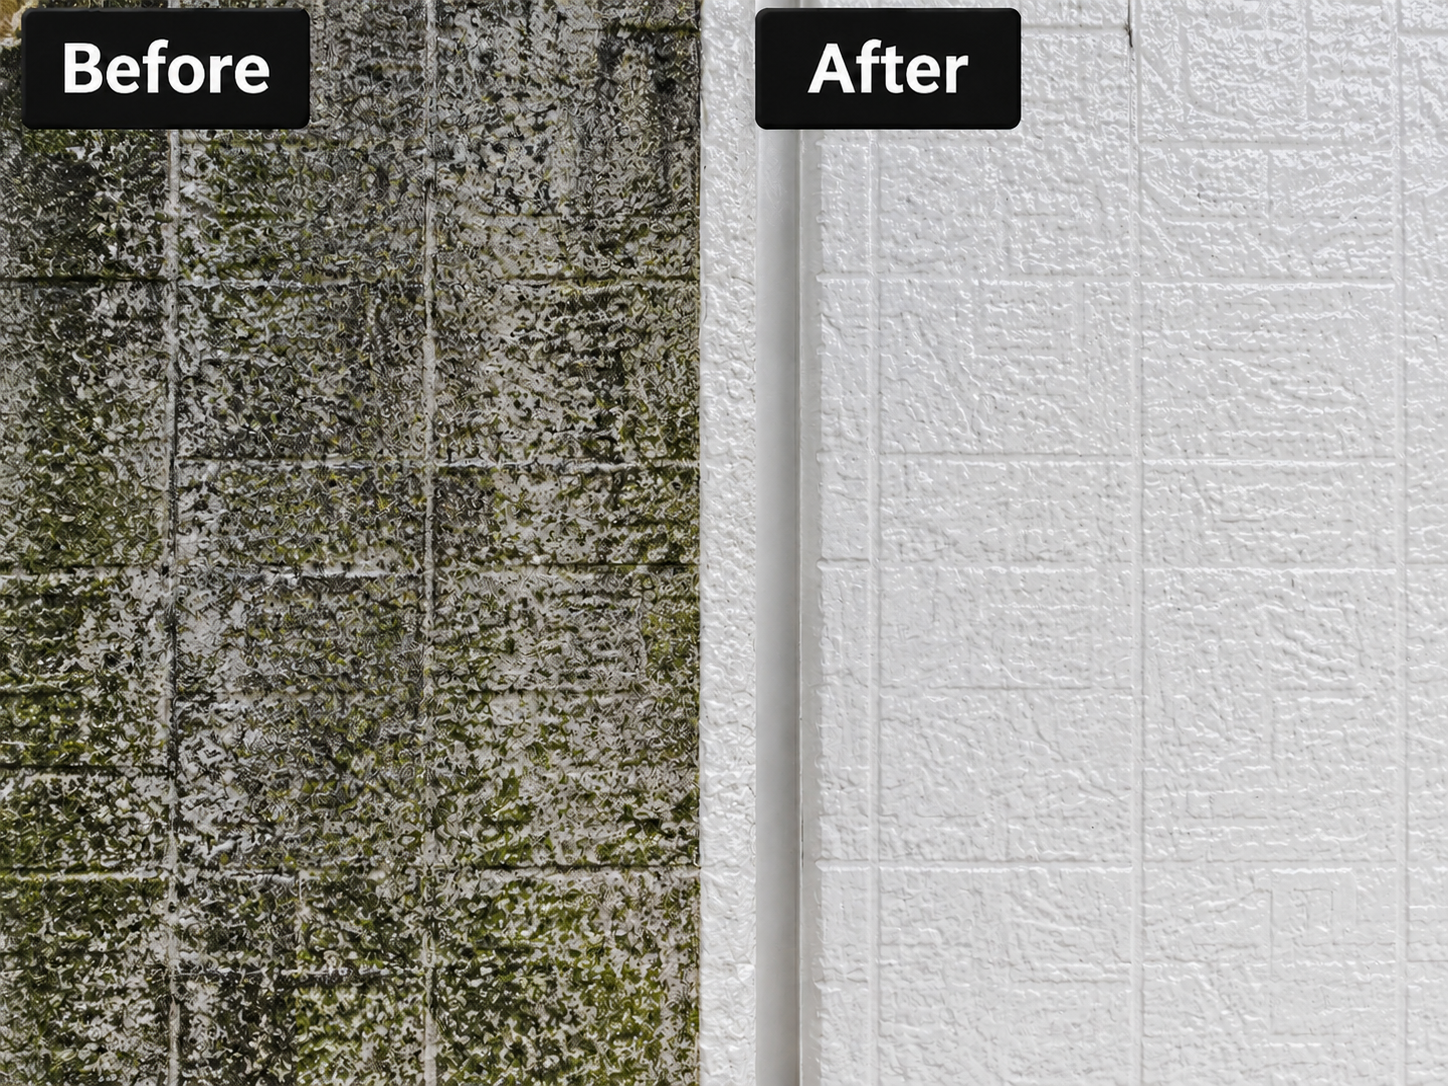
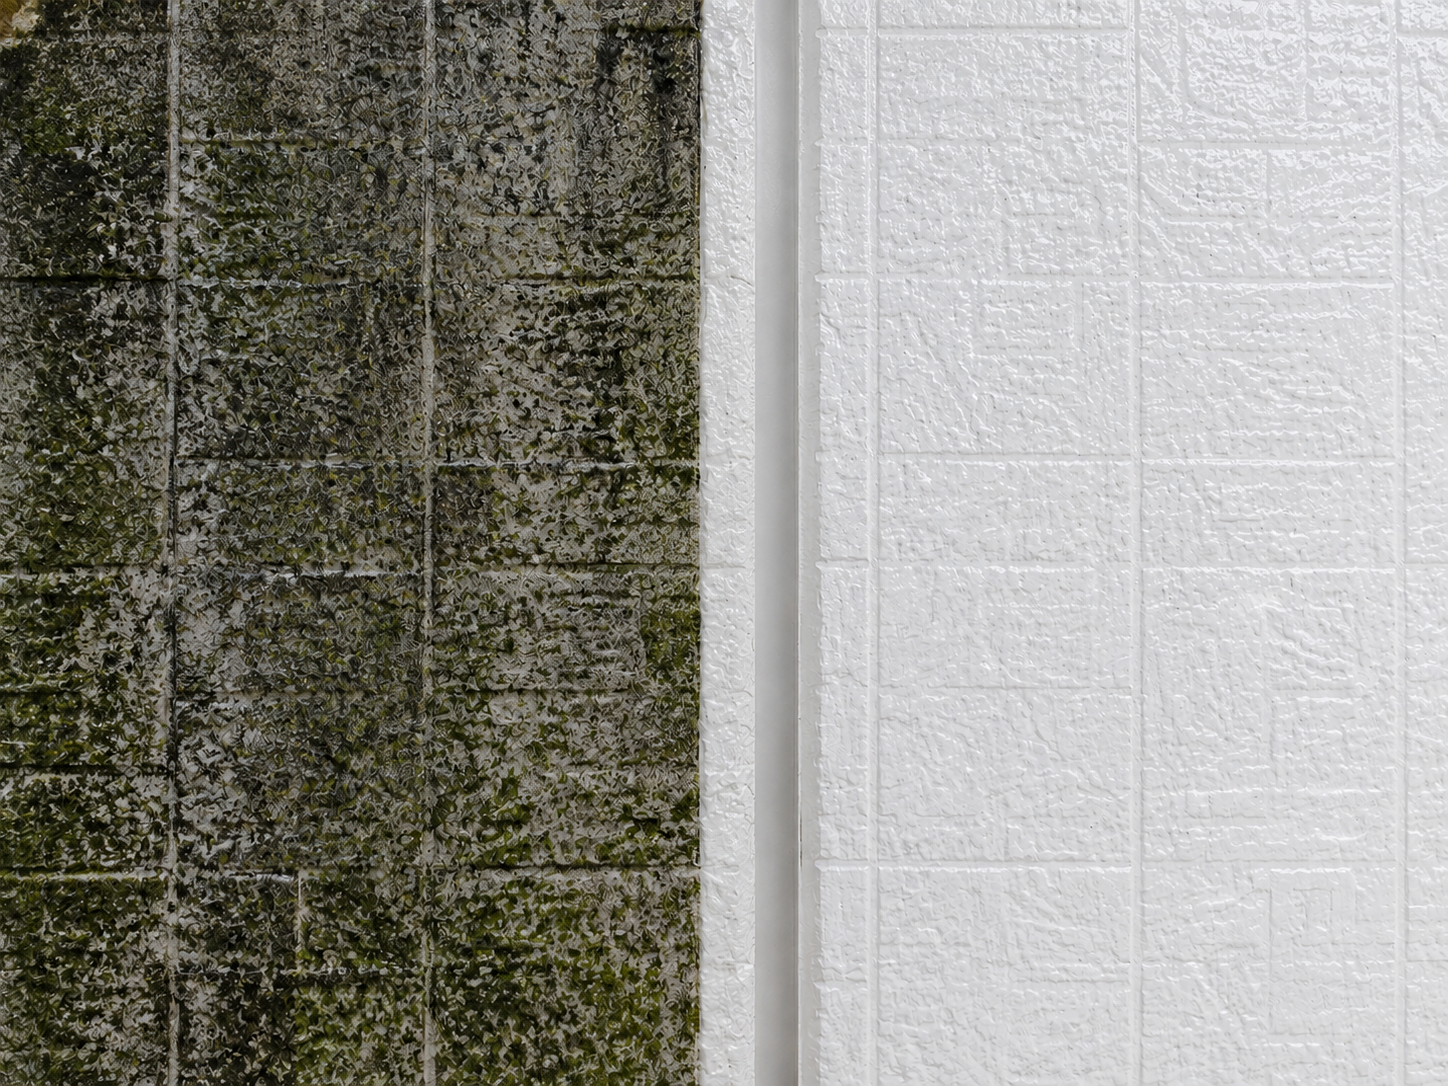
スマホFVの調整と洗浄力セクションのBefore/Afterをテキスト化
- スマホ：電話番号を右端へ、FV写真の位置と明るさを調整
- 保証書の画像を最新版に差し替え
- 洗浄力：文字なしの画像に差し替え、Before/AfterラベルをCSSで重ねて3枚とも統一

diff --git a/assets/css/style.css b/assets/css/style.css
@@ -586,7 +586,7 @@ button { font-family: inherit; }
   grid-template-columns: repeat(3, minmax(0, 1fr));
   gap: 22px;
 }
-.ba__frame { position: relative; }
+.ba__frame { position: relative; container-type: inline-size; }
 .ba__img {
   display: block;
   width: 100%;
@@ -596,6 +596,26 @@ button { font-family: inherit; }
   border: 1px solid var(--line-soft);
   background: #3d3f43;
 }
+/* Before / After のラベル（画像に焼き込まず、CSSで3枚とも同じ位置に載せる） */
+.ba__label {
+  position: absolute;
+  top: 2.4%;
+  z-index: 2;
+  padding: .26em .62em;
+  border-radius: .3em;
+  background: rgba(15, 15, 15, .9);
+  color: #fff;
+  font-family: var(--sans);
+  font-size: 20px; /* コンテナクエリ非対応ブラウザ用のフォールバック */
+  font-size: 5.6cqw;
+  font-weight: 700;
+  line-height: 1.25;
+  letter-spacing: .01em;
+  white-space: nowrap;
+}
+.ba__label--before { left: 2.2%; }
+.ba__label--after  { left: 53%; }
+
 /* Before → After の矢印（3枚とも同じ大きさ・位置） */
 .ba__arrow {
   position: absolute;
@@ -1381,20 +1401,22 @@ button { font-family: inherit; }
   body { font-size: 14px; padding-bottom: 76px; }
   .section { padding: 54px 0; }
 
-  .header__inner { padding: 10px 0; align-items: center; }
+  /* 電話番号を画面の右端ぎりぎりまで寄せる */
+  .header__inner { width: min(100% - 16px, 1240px); padding: 10px 0; align-items: center; }
   .header__logo-img { height: 84px; margin: -15px 0 -15px -13px; }
-  .header__right { gap: 12px; padding-top: 0; }
+  .header__right { gap: 6px; padding-top: 0; }
   .header__tel-num { font-size: 17px; }
   .header__tel-time { font-size: 10px; }
-  .header__menu { width: 34px; height: 26px; gap: 6px; }
+  .header__menu { width: 30px; height: 26px; gap: 6px; margin-right: -2px; }
 
   .hero { padding-top: 66px; }
   .hero__inner { grid-template-columns: 1fr; padding: 14px 0 18px; }
   .hero__bottle { width: 48%; margin-left: 0; margin-right: auto; margin-top: -8px; }
-  .hero__bg { object-position: 51% center; }
+  /* 作業者の女性が画面の右寄りに来るように写真の位置を調整 */
+  .hero__bg { object-position: 48% center; filter: brightness(1.12) saturate(1.04); }
   .hero__media::after {
     background:
-      linear-gradient(180deg, rgba(30,31,34,.9) 0%, rgba(32,33,36,.55) 34%, rgba(26,27,30,.82) 100%);
+      linear-gradient(180deg, rgba(30,31,34,.72) 0%, rgba(32,33,36,.3) 34%, rgba(26,27,30,.6) 100%);
   }
   /* ボトル周りは暗くせず、影だけで浮かせる */
   .hero__bottle::before { background: none; }

diff --git a/index.html b/index.html
@@ -122,6 +122,8 @@
       <figure class="ba">
         <div class="ba__frame">
           <img src="assets/img/ba-01.png" alt="黒ずみ・コケ・カビ汚れの洗浄前後の比較" class="ba__img" width="1448" height="1086" loading="lazy">
+          <span class="ba__label ba__label--before">Before</span>
+          <span class="ba__label ba__label--after">After</span>
           <span class="ba__arrow" aria-hidden="true">
             <svg viewBox="0 0 24 24"><path d="M8.5 4.5L16 12l-7.5 7.5"/></svg>
           </span>
@@ -132,6 +134,8 @@
       <figure class="ba">
         <div class="ba__frame">
           <img src="assets/img/ba-02.png" alt="排気ガスによる汚れの洗浄前後の比較" class="ba__img" width="1448" height="1086" loading="lazy">
+          <span class="ba__label ba__label--before">Before</span>
+          <span class="ba__label ba__label--after">After</span>
           <span class="ba__arrow" aria-hidden="true">
             <svg viewBox="0 0 24 24"><path d="M8.5 4.5L16 12l-7.5 7.5"/></svg>
           </span>
@@ -142,6 +146,8 @@
       <figure class="ba">
         <div class="ba__frame">
           <img src="assets/img/ba-03.png" alt="雨だれ・水アカ汚れの洗浄前後の比較" class="ba__img" width="1448" height="1086" loading="lazy">
+          <span class="ba__label ba__label--before">Before</span>
+          <span class="ba__label ba__label--after">After</span>
           <span class="ba__arrow" aria-hidden="true">
             <svg viewBox="0 0 24 24"><path d="M8.5 4.5L16 12l-7.5 7.5"/></svg>
           </span>
@@ -218,7 +224,7 @@
     <h2 class="sec-title sec-title--rule">保証・アフターサービス</h2>
     <div class="guarantee">
       <div class="guarantee__img">
-        <img src="assets/img/warranty.jpg" alt="製品保証書 兼 外壁塗装優待券のサンプル" width="1522" height="1076" loading="lazy">
+        <img src="assets/img/warranty.jpg" alt="製品保証書 兼 外壁塗装優待券のサンプル" width="2000" height="1414" loading="lazy">
       </div>
       <ul class="guarantee__list">
         <li>施工後、保証書を発行いたします</li>
